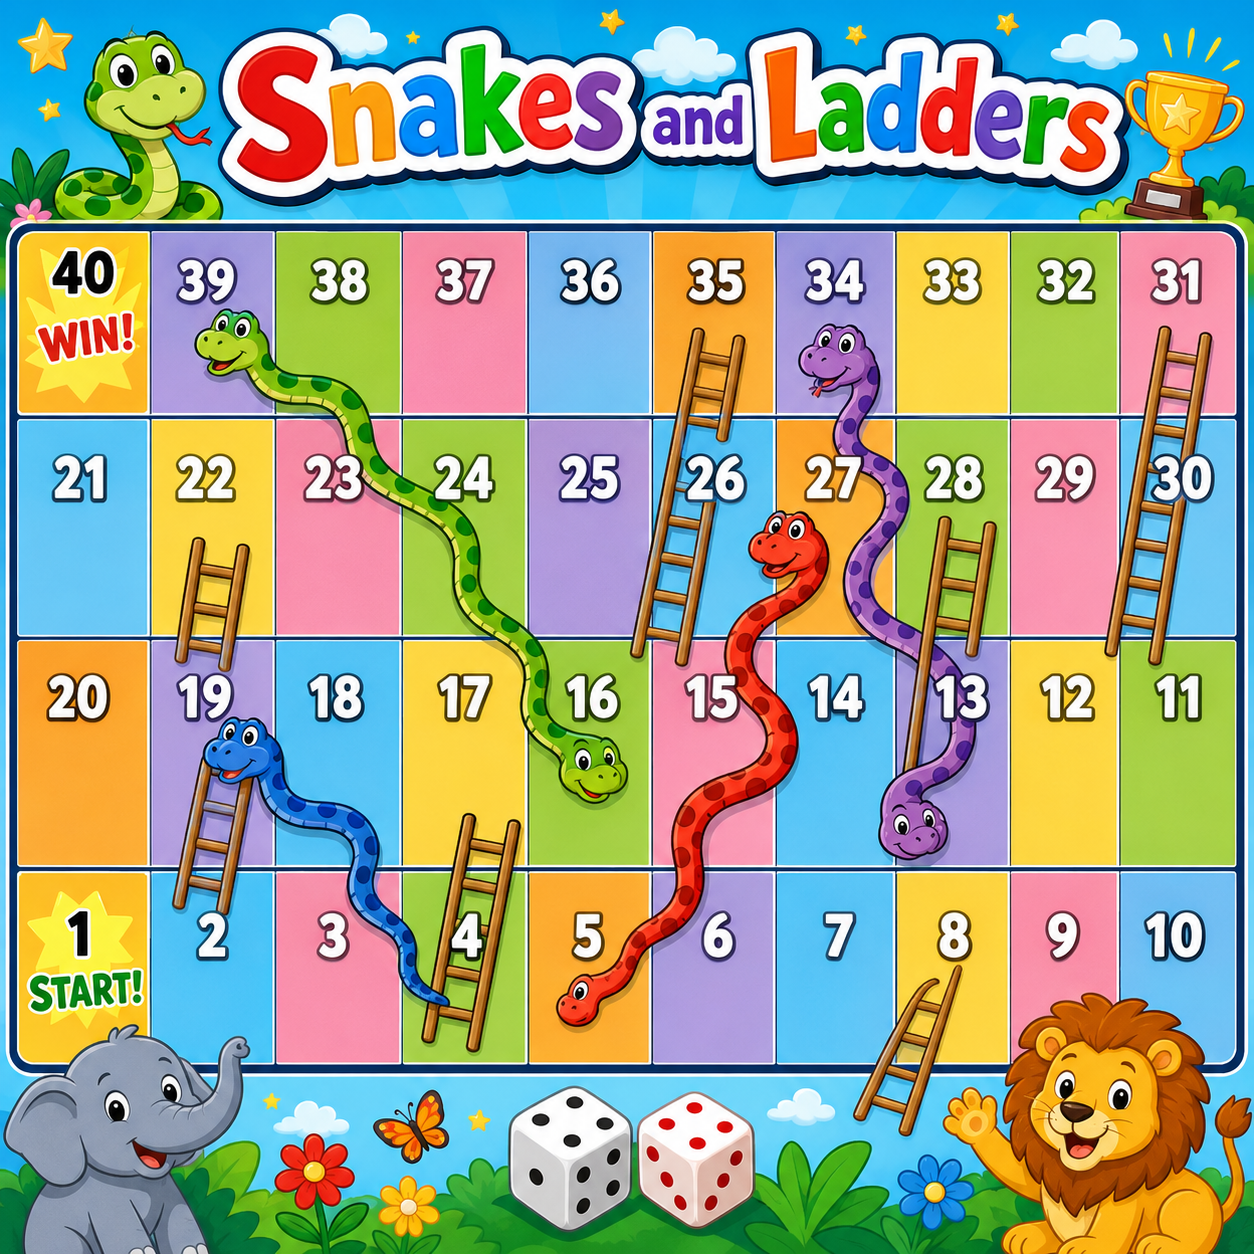
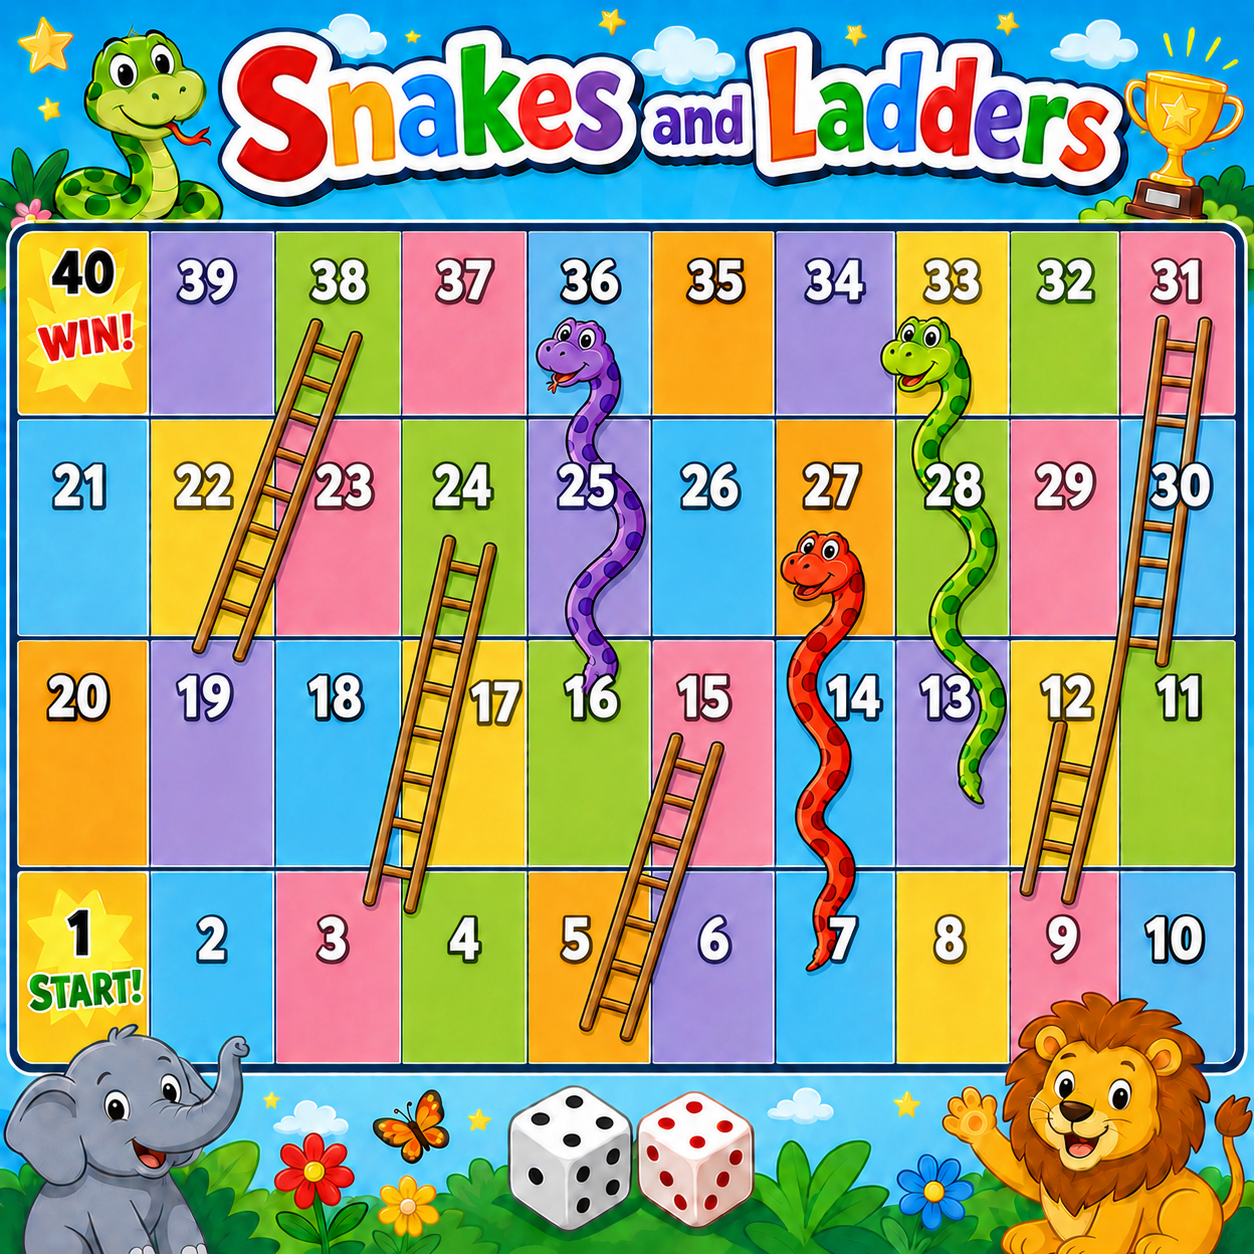
Replace drawn board with illustrated Snakes and Ladders board image

diff --git a/snakes-ladders.html b/snakes-ladders.html
@@ -111,32 +111,38 @@
       width: 100%;
       max-width: 560px;
       margin: 0 auto;
+    }
+
+    .board-img {
+      width: 100%;
+      display: block;
       border-radius: 12px;
-      border: 4px solid #2C3E50;
-      overflow: hidden;
-      box-shadow: 0 8px 30px rgba(0,0,0,.35);
     }
 
     .board-grid {
+      position: absolute;
+      top: 19%;
+      left: 5.5%;
+      width: 89%;
+      height: 62%;
       display: grid;
-      grid-template-columns: repeat(8, 1fr);
-      grid-template-rows: repeat(5, 1fr);
-      width: 100%;
-      aspect-ratio: 8/5;
-      background: url('icons/bg-snakes.png') center/cover no-repeat;
+      grid-template-columns: repeat(10, 1fr);
+      grid-template-rows: repeat(4, 1fr);
+      gap: 0;
     }
 
     .cell {
-      display: flex;
-      flex-direction: column;
-      align-items: center;
-      justify-content: center;
-      border: 1.5px solid rgba(0,0,0,0.12);
       position: relative;
       cursor: default;
       user-select: none;
-      gap: 1px;
+      border: none;
+      background: transparent !important;
     }
+
+    .cell-num { display: none; }
+    .cell-label { display: none; }
+
+    .board-svg { display: none; }
 
     .cell-num {
       font-family: 'Comic Sans MS', 'Comic Neue', cursive;
@@ -394,9 +400,10 @@
   <div class="game-wrap">
 
     <div class="board-container" id="boardContainer">
-      <div class="board-grid" id="boardGrid"></div>
-      <svg class="board-svg" id="boardSvg" viewBox="0 0 800 500" preserveAspectRatio="none"></svg>
-      <div class="player-token" id="playerToken">🐱</div>
+      <img src="icons/bg-snakes.png" class="board-img" alt="Snakes and Ladders Board">
+      <div class="board-grid" id="boardGrid">
+        <div class="player-token" id="playerToken">🐱</div>
+      </div>
     </div>
 
     <div class="controls-card">
@@ -448,8 +455,8 @@ const WORDS = {
 };
 
 /* ─── BOARD DATA ─── */
-const SNAKES  = { 38:9, 30:11, 22:4, 16:2 };
-const LADDERS = { 3:17, 8:25, 13:28, 20:34 };
+const SNAKES  = { 36:16, 33:13, 27:7, 19:2 };
+const LADDERS = { 3:22, 17:24, 5:15, 29:32 };
 
 const PALETTE = ['#FF9AA2','#FFB7B2','#FFDAC1','#E2F0CB','#B5EAD7','#C7CEEA','#FFCBA4','#D4EDDA'];
 
@@ -476,10 +483,10 @@ const btnMute         = document.getElementById('btnMute');
 
 /* ─── GRID MATH ─── */
 function squareToGrid(n) {
-  const rowFromBottom = Math.floor((n - 1) / 8);
-  const posInRow = (n - 1) % 8;
-  const col = rowFromBottom % 2 === 0 ? posInRow : 7 - posInRow;
-  const row = 4 - rowFromBottom;
+  const rowFromBottom = Math.floor((n - 1) / 10);
+  const posInRow = (n - 1) % 10;
+  const col = rowFromBottom % 2 === 0 ? posInRow : 9 - posInRow;
+  const row = 3 - rowFromBottom;
   return { col, row };
 }
 
@@ -589,56 +596,22 @@ function buildSnakesAndLadders() {
 function buildBoard() {
   boardGrid.innerHTML = '';
   for (const [k] of Object.entries(cellMap)) delete cellMap[k];
-
   for (let n = 1; n <= 40; n++) {
     const { col, row } = squareToGrid(n);
     const cell = document.createElement('div');
     cell.className = 'cell';
     cell.style.gridColumn = col + 1;
     cell.style.gridRow    = row + 1;
-
-    // Background color (semi-transparent so board image shows through)
-    let bg = PALETTE[(n - 1) % 8];
-    if (n === 1)  bg = 'rgba(255,215,0,0.6)';
-    else if (n === 40) bg = 'rgba(255,140,0,0.6)';
-    else if (SNAKES[n]  !== undefined) bg = 'rgba(255,107,107,0.6)';
-    else if (LADDERS[n] !== undefined) bg = 'rgba(152,251,152,0.6)';
-    else bg = bg.replace(/^#([0-9a-f]{2})([0-9a-f]{2})([0-9a-f]{2})$/i,
-      (_, r, g, b) => `rgba(${parseInt(r,16)},${parseInt(g,16)},${parseInt(b,16)},0.55)`);
-    cell.style.background = bg;
-
-    // Number
-    const numEl = document.createElement('div');
-    numEl.className = 'cell-num';
-    numEl.textContent = n;
-    cell.appendChild(numEl);
-
-    // Label
-    let label = '';
-    if (n === 1)  label = 'START 🏁';
-    if (n === 40) label = 'GOAL! 🏆';
-    if (SNAKES[n]  !== undefined) label = '🐍';
-    if (LADDERS[n] !== undefined) label = '🪜';
-
-    if (label) {
-      const labelEl = document.createElement('div');
-      labelEl.className = 'cell-label';
-      labelEl.textContent = label;
-      cell.appendChild(labelEl);
-    }
-
     boardGrid.appendChild(cell);
     cellMap[n] = cell;
   }
-
-  buildSnakesAndLadders();
 }
 
 /* ─── TOKEN POSITIONING ─── */
 function positionToken(n) {
   const { col, row } = squareToGrid(n);
-  playerToken.style.left = ((col + 0.5) * 12.5) + '%';
-  playerToken.style.top  = ((row + 0.5) * 20) + '%';
+  playerToken.style.left = ((col + 0.5) * 10) + '%';
+  playerToken.style.top  = ((row + 0.5) * 25) + '%';
   // Update highlight
   for (let i = 1; i <= 40; i++) {
     if (cellMap[i]) cellMap[i].classList.remove('player-here');